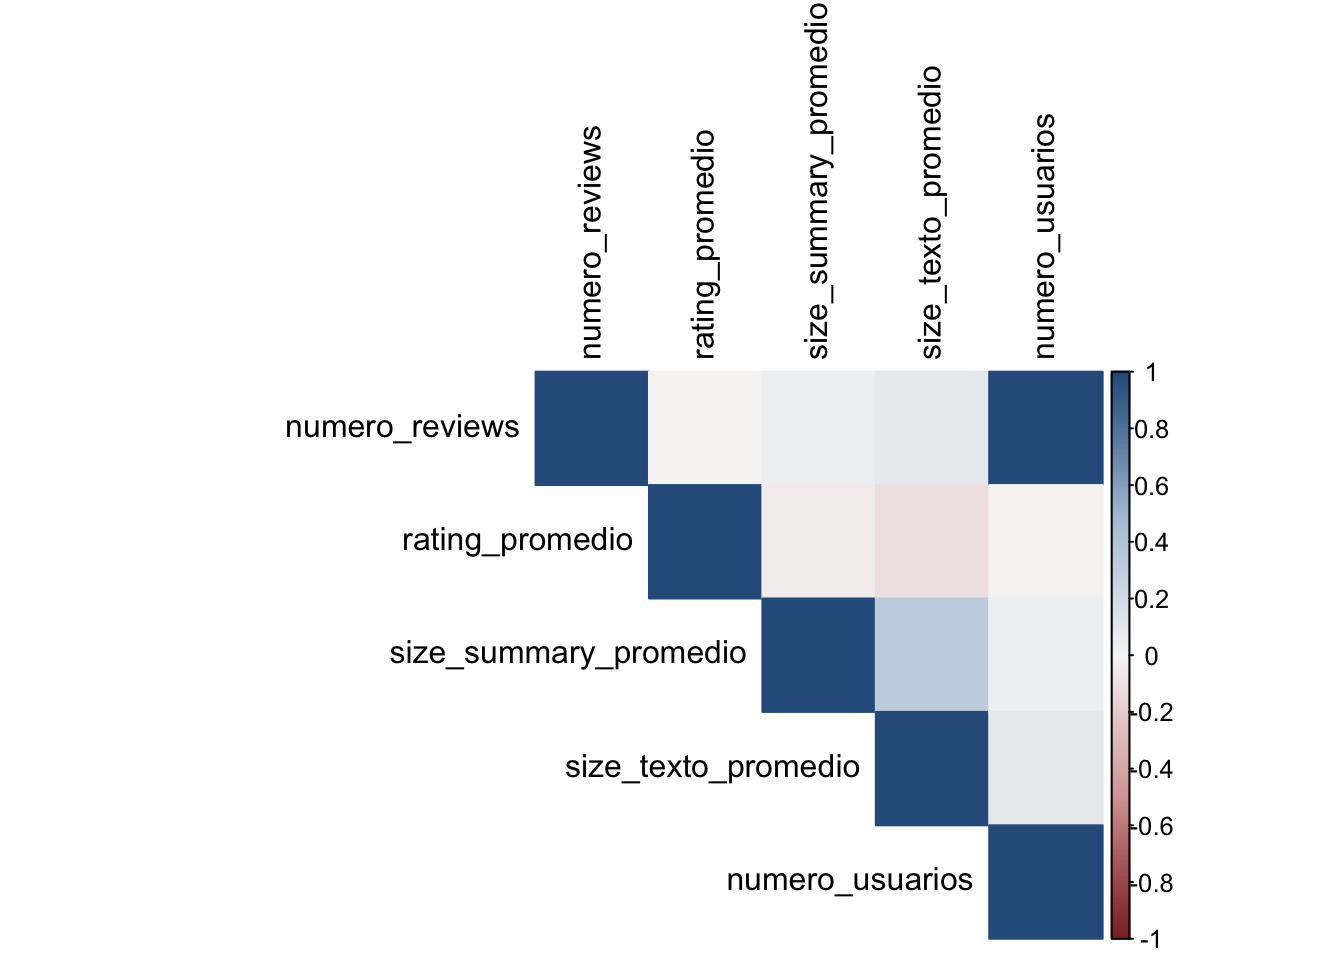
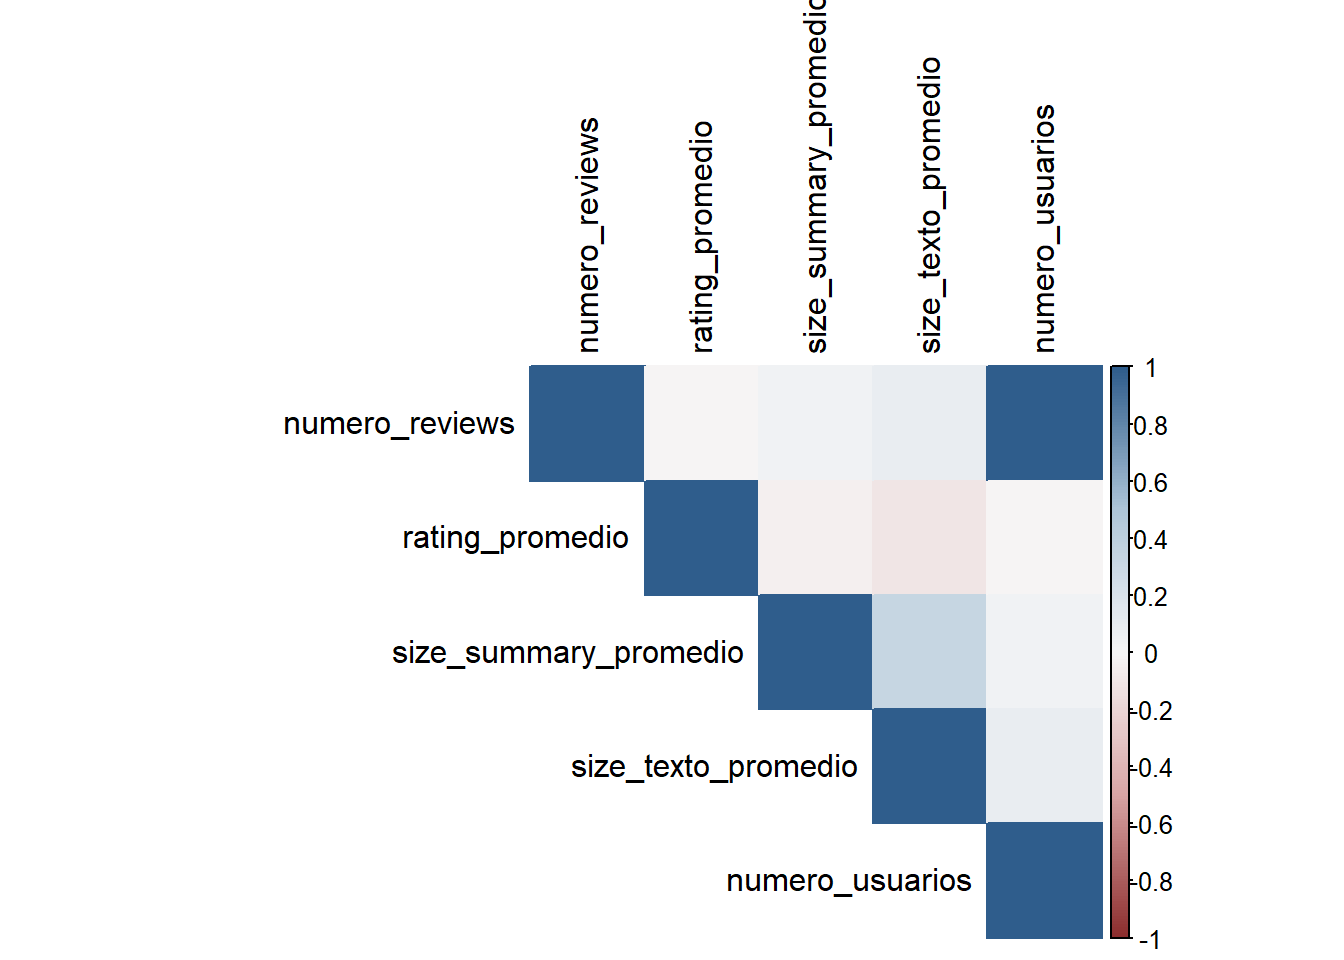
commit number 8

diff --git a/_book/bloque1.html b/_book/bloque1.html
@@ -2,16 +2,13 @@
 <html xmlns="http://www.w3.org/1999/xhtml" lang="en" xml:lang="en"><head>
 
 <meta charset="utf-8">
-<meta name="generator" content="quarto-1.9.36">
+<meta name="generator" content="quarto-1.8.25">
 
 <meta name="viewport" content="width=device-width, initial-scale=1.0, user-scalable=yes">
 
 
 <title>1&nbsp; Bloque I: Análisis de Componentes Principales (PCA). – Arquitectura de Influencia en Ecosistemas de Consumo</title>
 <style>
-/* Default styles provided by pandoc.
-** See https://pandoc.org/MANUAL.html#variables-for-html for config info.
-*/
 code{white-space: pre-wrap;}
 span.smallcaps{font-variant: small-caps;}
 div.columns{display: flex; gap: min(4vw, 1.5em);}
@@ -72,14 +69,15 @@ pre > code.sourceCode > span > a:first-child::before { text-decoration: underlin
 <link href="./index.html" rel="prev">
 <script src="site_libs/quarto-html/quarto.js" type="module"></script>
 <script src="site_libs/quarto-html/tabsets/tabsets.js" type="module"></script>
+<script src="site_libs/quarto-html/axe/axe-check.js" type="module"></script>
 <script src="site_libs/quarto-html/popper.min.js"></script>
 <script src="site_libs/quarto-html/tippy.umd.min.js"></script>
 <script src="site_libs/quarto-html/anchor.min.js"></script>
 <link href="site_libs/quarto-html/tippy.css" rel="stylesheet">
-<link href="site_libs/quarto-html/quarto-syntax-highlighting-02b7b62a15ccdfeac99fd78ed28fc3c0.css" rel="stylesheet" id="quarto-text-highlighting-styles">
+<link href="site_libs/quarto-html/quarto-syntax-highlighting-ff907a47ac0a29d3ca1a7450859183ed.css" rel="stylesheet" id="quarto-text-highlighting-styles">
 <script src="site_libs/bootstrap/bootstrap.min.js"></script>
 <link href="site_libs/bootstrap/bootstrap-icons.css" rel="stylesheet">
-<link href="site_libs/bootstrap/bootstrap-7e99a56414d45cd2060c2141c27fe866.min.css" rel="stylesheet" append-hash="true" id="quarto-bootstrap" data-mode="light">
+<link href="site_libs/bootstrap/bootstrap-6d71e7d90f3d7f746f6ce96e34693826.min.css" rel="stylesheet" append-hash="true" id="quarto-bootstrap" data-mode="light">
 <script id="quarto-search-options" type="application/json">{
   "location": "sidebar",
   "copy-button": false,
@@ -109,10 +107,12 @@ pre > code.sourceCode > span > a:first-child::before { text-decoration: underlin
 }</script>
 <style>html{ scroll-behavior: smooth; }</style>
 <link href="site_libs/pagedtable-1.1/css/pagedtable.css" rel="stylesheet">
+
 <script src="site_libs/pagedtable-1.1/js/pagedtable.js"></script>
 
+
   <script src="https://cdnjs.cloudflare.com/polyfill/v3/polyfill.min.js?features=es6"></script>
-  <script defer="" src="https://cdn.jsdelivr.net/npm/mathjax@3/es5/tex-chtml-full.js" type="text/javascript"></script>
+  <script src="https://cdn.jsdelivr.net/npm/mathjax@3/es5/tex-chtml-full.js" type="text/javascript"></script>
 
 <script type="text/javascript">
 const typesetMath = (el) => {
@@ -165,7 +165,9 @@ window.Quarto = {
 <div id="quarto-content" class="quarto-container page-columns page-rows-contents page-layout-article">
 <!-- sidebar -->
   <nav id="quarto-sidebar" class="sidebar collapse collapse-horizontal quarto-sidebar-collapse-item sidebar-navigation floating overflow-auto">
-    <div class="pt-lg-2 mt-2 text-left sidebar-header">
+    <div class="pt-lg-2 mt-2 text-left sidebar-header sidebar-header-stacked">
+      <a href="./index.html" class="sidebar-logo-link">
+      </a>
     <div class="sidebar-title mb-0 py-0">
       <a href="./">Arquitectura de Influencia en Ecosistemas de Consumo</a> 
     </div>
@@ -197,14 +199,14 @@ window.Quarto = {
 </li>
         <li class="sidebar-item">
   <div class="sidebar-item-container"> 
-  <a href="./comparacion_PCA_SNA.html" class="sidebar-item-text sidebar-link">
- <span class="menu-text"><span class="chapter-number">3</span>&nbsp; <span class="chapter-title">Validación Cruzada de Métodos: Comparación de resultados obtenidos en PCA y SNA.</span></span></a>
+  <a href="./bloque3.html" class="sidebar-item-text sidebar-link">
+ <span class="menu-text"><span class="chapter-number">3</span>&nbsp; <span class="chapter-title">Bloque III: Clasificación Basada en Enlaces (Link-based).</span></span></a>
   </div>
 </li>
         <li class="sidebar-item">
   <div class="sidebar-item-container"> 
-  <a href="./bloque3.html" class="sidebar-item-text sidebar-link">
- <span class="menu-text"><span class="chapter-number">4</span>&nbsp; <span class="chapter-title">Bloque III: Clasificación Basada en Enlaces (Link-based).</span></span></a>
+  <a href="./comparacion_PCA_SNA.html" class="sidebar-item-text sidebar-link">
+ <span class="menu-text"><span class="chapter-number">4</span>&nbsp; <span class="chapter-title">Validación Cruzada de Métodos: Comparación de resultados obtenidos en PCA y SNA.</span></span></a>
   </div>
 </li>
         <li class="sidebar-item">
@@ -281,7 +283,7 @@ window.Quarto = {
 </section>
 <section id="observación-y-preparación-del-dataset." class="level2" data-number="1.2">
 <h2 data-number="1.2" class="anchored" data-anchor-id="observación-y-preparación-del-dataset."><span class="header-section-number">1.2</span> Observación y preparación del dataset.</h2>
-<p>Una vez tenemos el dataset cargado, vamos a estudiarlo un poco y a generar una tabla con métricas de cada producto. En particular, vamos a observar qué datos hay <strong>incluidos</strong> en el dataset y nos vamos a quedar con las últimas <strong>3000 reseñas</strong>.</p>
+<p>Una vez tenemos el dataset cargado, vamos a estudiarlo un poco y a generar una tabla con métricas de cada producto. En particular, vamos a observar qué datos hay <strong>incluidos</strong> en el dataset y nos vamos a quedar con los últimas <strong>4000 productos</strong>.</p>
 <p>Para crear la tabla usaremos <code>tidyverse</code>.</p>
 <div class="cell">
 <div class="code-copy-outer-scaffold"><div class="sourceCode cell-code" id="cb2"><pre class="sourceCode r code-with-copy"><code class="sourceCode r"><span id="cb2-1"><a href="#cb2-1" aria-hidden="true" tabindex="-1"></a><span class="co"># Vemos el nombre de las columnas del dataset</span></span>
@@ -427,7 +429,7 @@ numero_usuarios       -0.7070295307</code></pre>
 <li>Se puede observar de la segunda tabla que, la primera componente tiene una fuerte influencia de las variables <code>numero_reviews</code> y <code>numero_usuarios</code>; variables que estaban <strong>muy correlacionadas previamente</strong>.</li>
 <li>La segunda componente está formada principalmente por las variables <code>size_summary_promedio</code> y <code>size_texto_promedio</code>.</li>
 <li>La tercera está creada casi exclusivamente por el <code>rating_promedio</code>.</li>
-<li>La cuarta y quinta componente principal tiene una distribución de la aportación de cada variable a su creación <strong>similar a la primera y segunda</strong>. La diferencia es que ahora, esas variables más importantes <strong>dapuntan a un sentido diferente</strong>, es decir, una de ellas tiene coeficiente negativo, mientras que la otra tiene coeficiente positivo.</li>
+<li>La cuarta y quinta componente principal tiene una distribución de la aportación de cada variable a su creación <strong>similar a la primera y segunda</strong>. La diferencia es que ahora, esas variables más importantes <strong>apuntan a un sentido diferente</strong>, es decir, una de ellas tiene coeficiente negativo, mientras que la otra tiene coeficiente positivo.</li>
 </ol>
 <section id="scree-plot-cuánta-información-aporta-cada-componente-principal" class="level3" data-number="1.4.1">
 <h3 data-number="1.4.1" class="anchored" data-anchor-id="scree-plot-cuánta-información-aporta-cada-componente-principal"><span class="header-section-number">1.4.1</span> Scree Plot: ¿Cuánta información aporta cada componente principal?</h3>
@@ -449,21 +451,36 @@ numero_usuarios       -0.7070295307</code></pre>
 </div>
 </div>
 <p>Podemos observar que <strong>no hay un codo muy marcado</strong>. Aún así, sería recomendable coger <strong>mínimo 2 componentes, y como máximo 3</strong>; aunque cogiendo 4 componentes tendríamos casi el 100% de la varianza explicada. Una conclusión evidente es que la quinta componente es <strong>insignificante</strong>.</p>
+<p>Para decidir si elegir 2 o 3 componentes, aplicamos el <strong>Criterio de Kaiser</strong>.</p>
+<div class="cell">
+<div class="code-copy-outer-scaffold"><div class="sourceCode cell-code" id="cb18"><pre class="sourceCode r code-with-copy"><code class="sourceCode r"><span id="cb18-1"><a href="#cb18-1" aria-hidden="true" tabindex="-1"></a>eig <span class="ot">&lt;-</span> pca_productos<span class="sc">$</span>sdev<span class="sc">^</span><span class="dv">2</span></span>
+<span id="cb18-2"><a href="#cb18-2" aria-hidden="true" tabindex="-1"></a><span class="fu">barplot</span>(eig, <span class="at">names.arg =</span> <span class="fu">paste0</span>(<span class="st">"PC"</span>, <span class="dv">1</span><span class="sc">:</span><span class="dv">5</span>))</span>
+<span id="cb18-3"><a href="#cb18-3" aria-hidden="true" tabindex="-1"></a><span class="fu">abline</span>(<span class="at">h =</span> <span class="dv">1</span>, <span class="at">lty =</span> <span class="dv">2</span>)</span></code></pre></div><button title="Copy to Clipboard" class="code-copy-button"><i class="bi"></i></button></div>
+<div class="cell-output-display">
+<div>
+<figure class="figure">
+<p><img src="bloque1_files/figure-html/unnamed-chunk-8-1.png" class="img-fluid figure-img" width="672"></p>
+</figure>
+</div>
+</div>
+</div>
+<p>Luego, por el criterio de Kaiser, solo nos quedaríamos con las <strong>dos primeras componentes</strong> (son las que tienen el autovalor mayor que 1).</p>
+<p>Podemos observar que la tercera componente se queda muy cerca (0.97), pero <strong>el criterio la excluiría</strong>. Aún así, vamos a tenerla en cuenta también <strong>a la hora de analizarlas</strong>.</p>
 </section>
 <section id="el-biplot-del-dataset." class="level3" data-number="1.4.2">
 <h3 data-number="1.4.2" class="anchored" data-anchor-id="el-biplot-del-dataset."><span class="header-section-number">1.4.2</span> El Biplot del dataset.</h3>
 <p>Ahora observaremos el Biplot del dataset con los datos de la segunda tabla mostrada. Para ello usaremos la función <code>fviz_pca_biplot()</code> de la librería <code>factoextra</code> (cargada previamente).</p>
 <div class="cell">
-<div class="code-copy-outer-scaffold"><div class="sourceCode cell-code" id="cb18"><pre class="sourceCode r code-with-copy"><code class="sourceCode r"><span id="cb18-1"><a href="#cb18-1" aria-hidden="true" tabindex="-1"></a><span class="fu">fviz_pca_biplot</span>(pca_productos,</span>
-<span id="cb18-2"><a href="#cb18-2" aria-hidden="true" tabindex="-1"></a>                <span class="at">col.var =</span> <span class="st">"#2F5D8C"</span>, </span>
-<span id="cb18-3"><a href="#cb18-3" aria-hidden="true" tabindex="-1"></a>                <span class="at">col.ind =</span> <span class="st">"#8C2D2D"</span>,</span>
-<span id="cb18-4"><a href="#cb18-4" aria-hidden="true" tabindex="-1"></a>                <span class="at">repel=</span><span class="cn">TRUE</span>,</span>
-<span id="cb18-5"><a href="#cb18-5" aria-hidden="true" tabindex="-1"></a>                <span class="at">geom=</span><span class="st">"point"</span>,</span>
-<span id="cb18-6"><a href="#cb18-6" aria-hidden="true" tabindex="-1"></a>                <span class="at">title =</span> <span class="st">"Biplot de los productos."</span>)</span></code></pre></div><button title="Copy to Clipboard" class="code-copy-button"><i class="bi"></i></button></div>
+<div class="code-copy-outer-scaffold"><div class="sourceCode cell-code" id="cb19"><pre class="sourceCode r code-with-copy"><code class="sourceCode r"><span id="cb19-1"><a href="#cb19-1" aria-hidden="true" tabindex="-1"></a><span class="fu">fviz_pca_biplot</span>(pca_productos,</span>
+<span id="cb19-2"><a href="#cb19-2" aria-hidden="true" tabindex="-1"></a>                <span class="at">col.var =</span> <span class="st">"#2F5D8C"</span>, </span>
+<span id="cb19-3"><a href="#cb19-3" aria-hidden="true" tabindex="-1"></a>                <span class="at">col.ind =</span> <span class="st">"#8C2D2D"</span>,</span>
+<span id="cb19-4"><a href="#cb19-4" aria-hidden="true" tabindex="-1"></a>                <span class="at">repel=</span><span class="cn">TRUE</span>,</span>
+<span id="cb19-5"><a href="#cb19-5" aria-hidden="true" tabindex="-1"></a>                <span class="at">geom=</span><span class="st">"point"</span>,</span>
+<span id="cb19-6"><a href="#cb19-6" aria-hidden="true" tabindex="-1"></a>                <span class="at">title =</span> <span class="st">"Biplot de los productos."</span>)</span></code></pre></div><button title="Copy to Clipboard" class="code-copy-button"><i class="bi"></i></button></div>
 <div class="cell-output-display">
 <div>
 <figure class="figure">
-<p><img src="bloque1_files/figure-html/unnamed-chunk-8-1.png" class="img-fluid figure-img" width="672"></p>
+<p><img src="bloque1_files/figure-html/unnamed-chunk-9-1.png" class="img-fluid figure-img" width="672"></p>
 </figure>
 </div>
 </div>
@@ -477,8 +494,8 @@ numero_usuarios       -0.7070295307</code></pre>
 <h2 data-number="1.5" class="anchored" data-anchor-id="conclusión-qué-significa-cada-componente"><span class="header-section-number">1.5</span> Conclusión: ¿Qué significa cada componente?</h2>
 <p>Aquí se dará una posible interpretación de qué significa cada componente:</p>
 <p>La primera componente es clara. Representa el número de reseñas que tiene el producto.</p>
-<p>La segunda componente es más interesante, ya que representa <strong>cómo de bien reseñado está un producto</strong>. Para esta componente no solo importa la valoración media que tiene el producto, sino que también importa cómo de fácil es leer las opiniones de otros usuarios, penalizando reseñas excesivamente largas. Sería interesante ver cómo se relacionaría el sentimiento promedio de las reseñas con esta variable.</p>
-<p>La tercera componente, que no se ha graficado, también tiene una interpretación clara (sacada de la segunda tabla). Esta componente representa simplemente la valoración promedia del producto.</p>
+<p>La segunda componente es más interesante, ya que representa <strong>la verbosidad de las reseñas de un producto</strong>. Para esta componente no importa demasiado la valoración media que tiene el producto, sino que lo que realmente marca la diferencia es <strong>cómo de fácil es leer las opiniones de otros usuarios</strong>, penalizando así las reseñas excesivamente largas. Sería interesante ver cómo se relacionaría el sentimiento promedio de las reseñas con esta variable.</p>
+<p>La tercera componente, que no se ha graficado, también tiene una interpretación clara (sacada de la segunda tabla). Esta componente representa simplemente la valoración promedio del producto.</p>
 <hr>
 <p><strong><em>FIN DEL BLOQUE 1</em></strong></p>
 